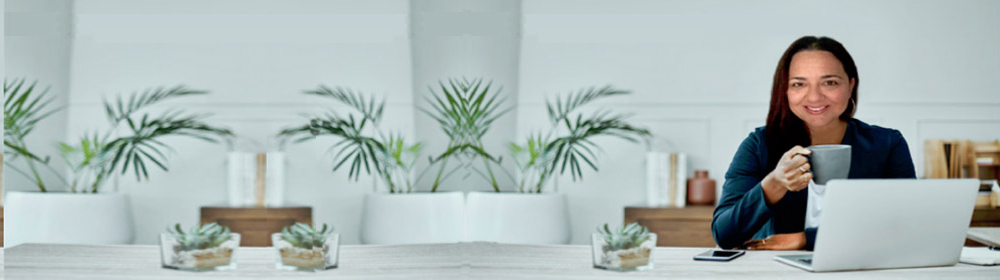
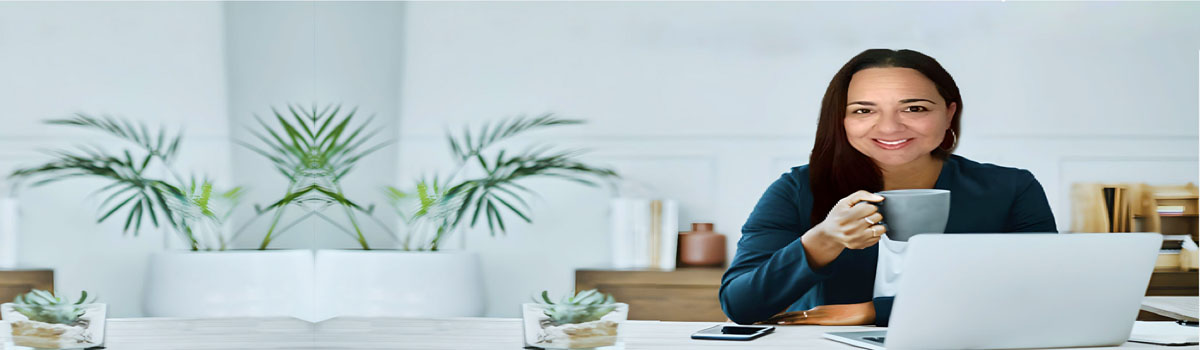
updated project

diff --git a/css/style.css b/css/style.css
@@ -270,12 +270,12 @@ header {
   margin: 0.5rem 0;
   font-weight: 500;
 }
-/* testimonial-section"  linear-gradient(90deg, rgba(0, 0, 0, 0.3), rgba(0, 0, 0, 0.1)), */
+/* testimonial-section"  */
 .testimonial-section {
   background: url(../media/img/testimonial-bg1.jpg);
   background-repeat: no-repeat;
   background-size: cover;
-  background-position: 90% 100%;
+  background-position: 75% 100%;
 }
 .testimonial-section .item {
   background: rgb(255, 255, 255, 0.9);
